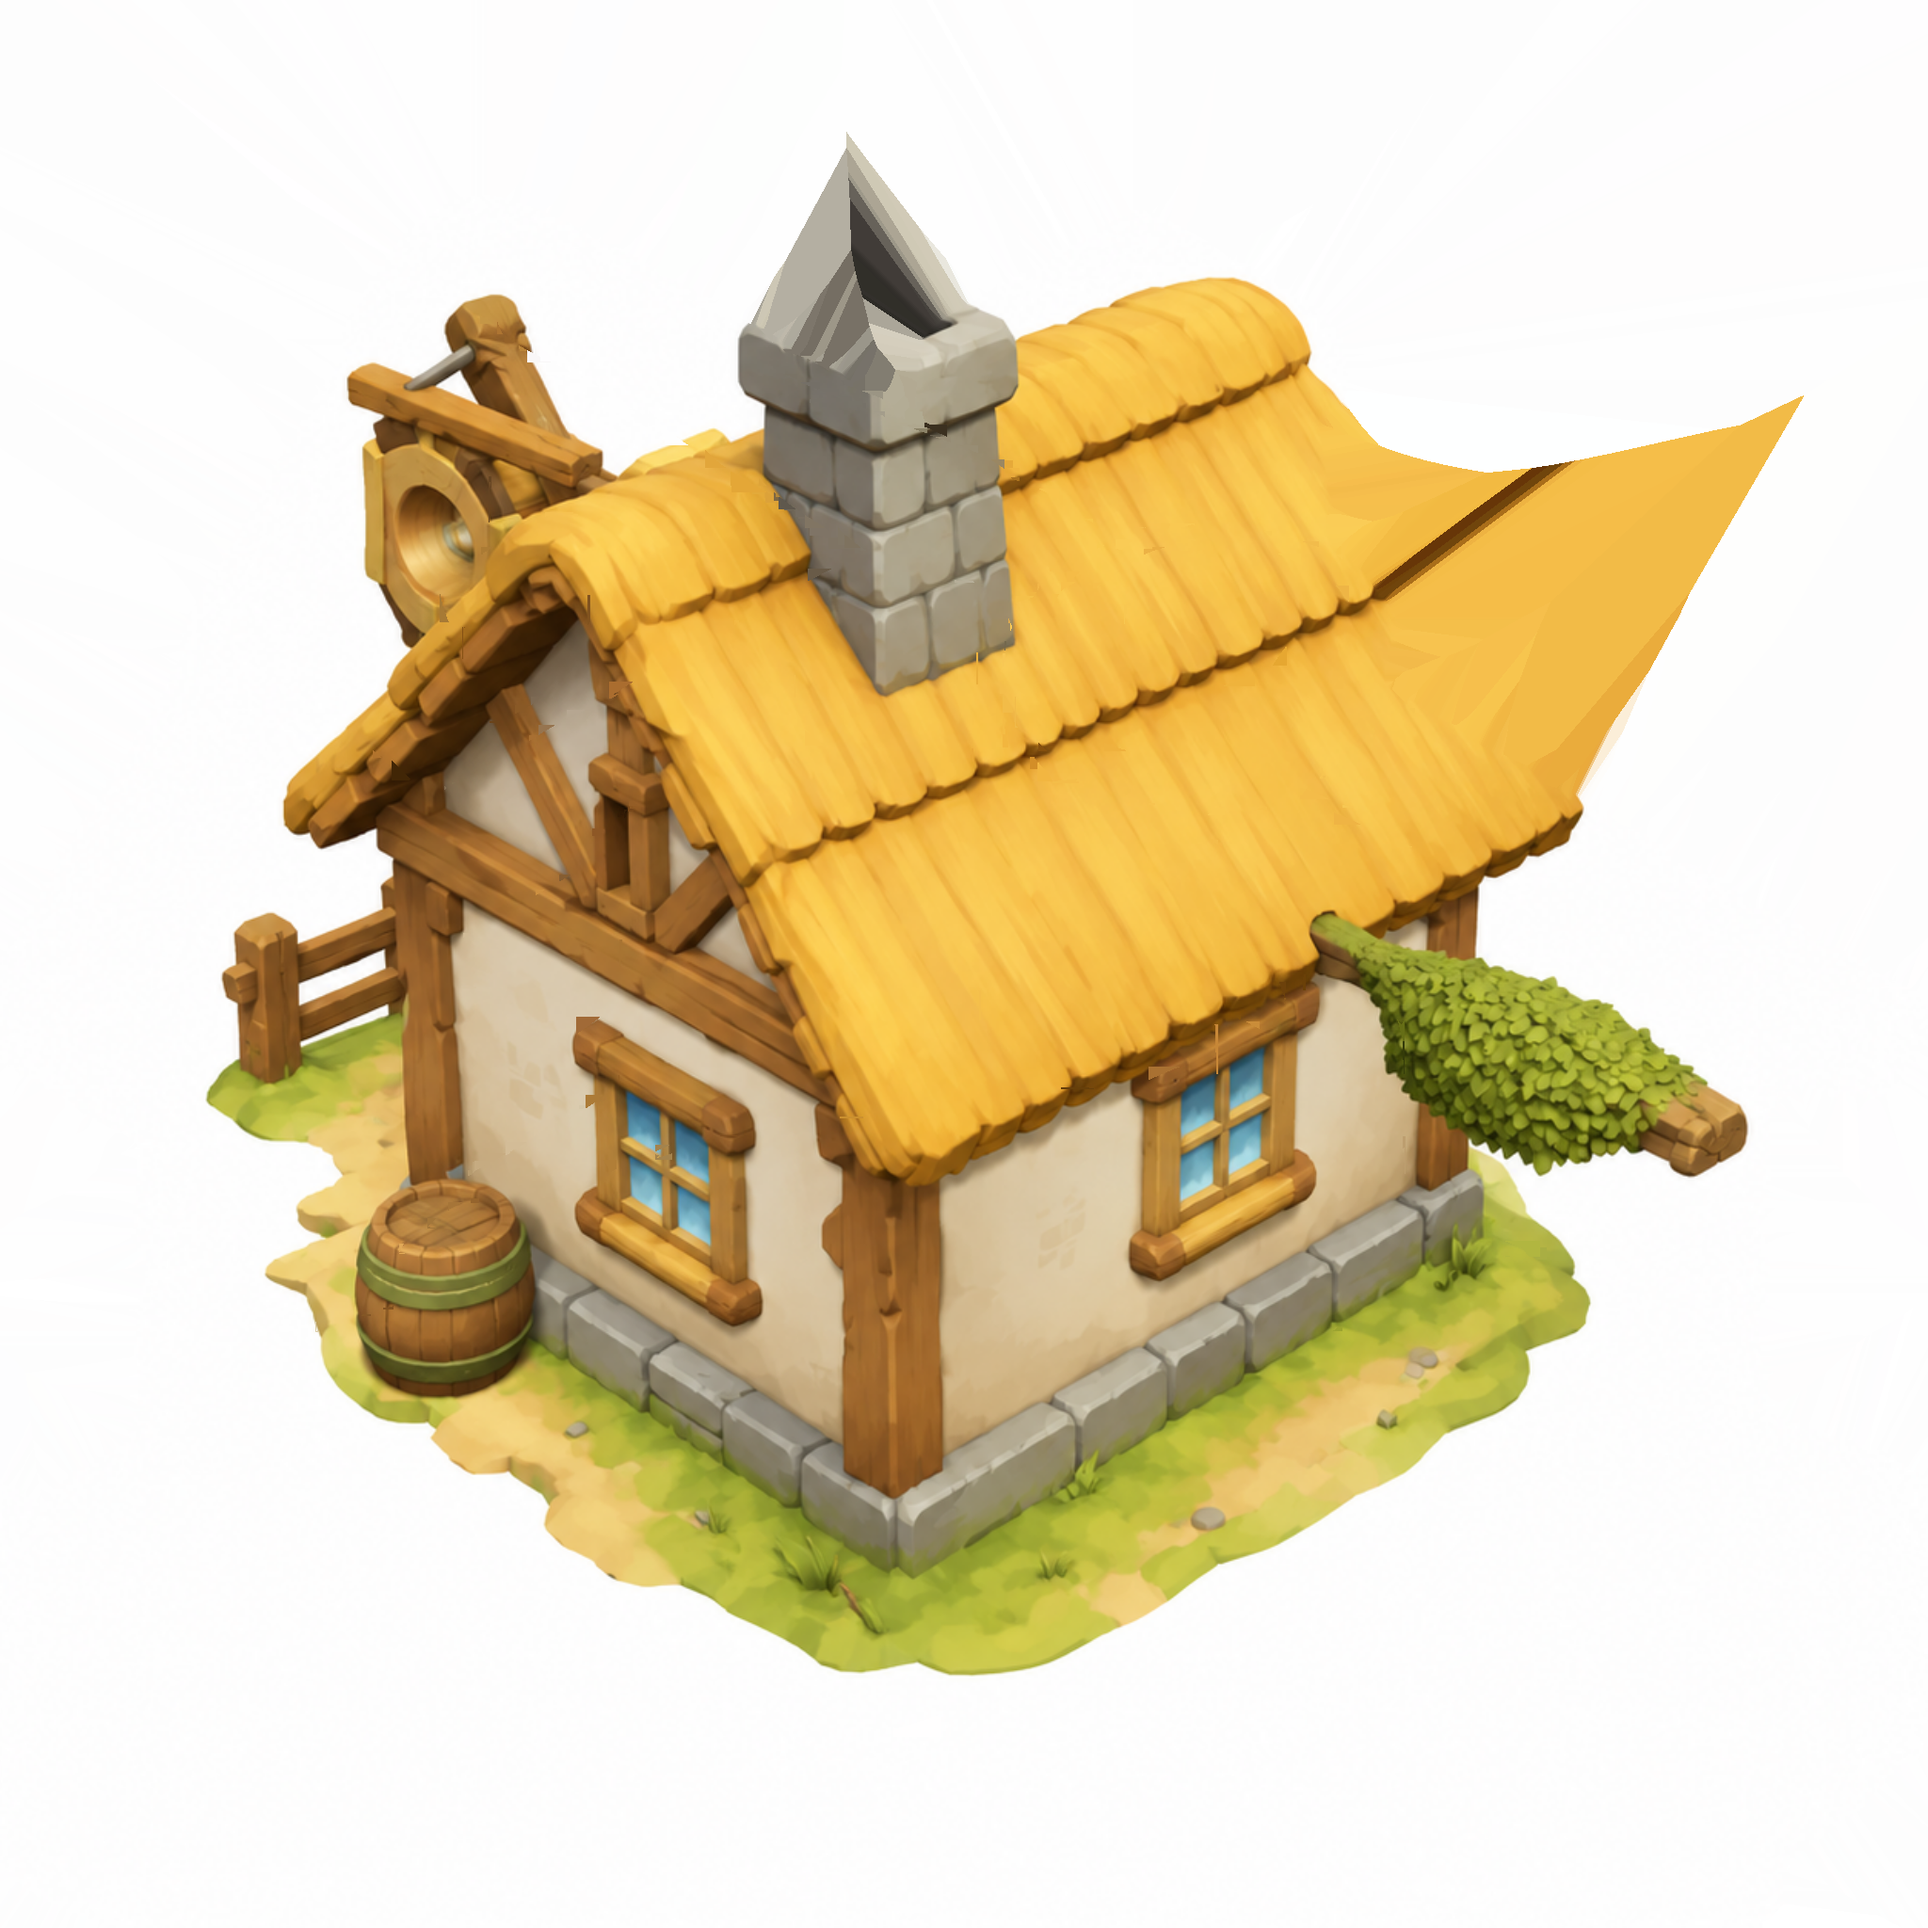
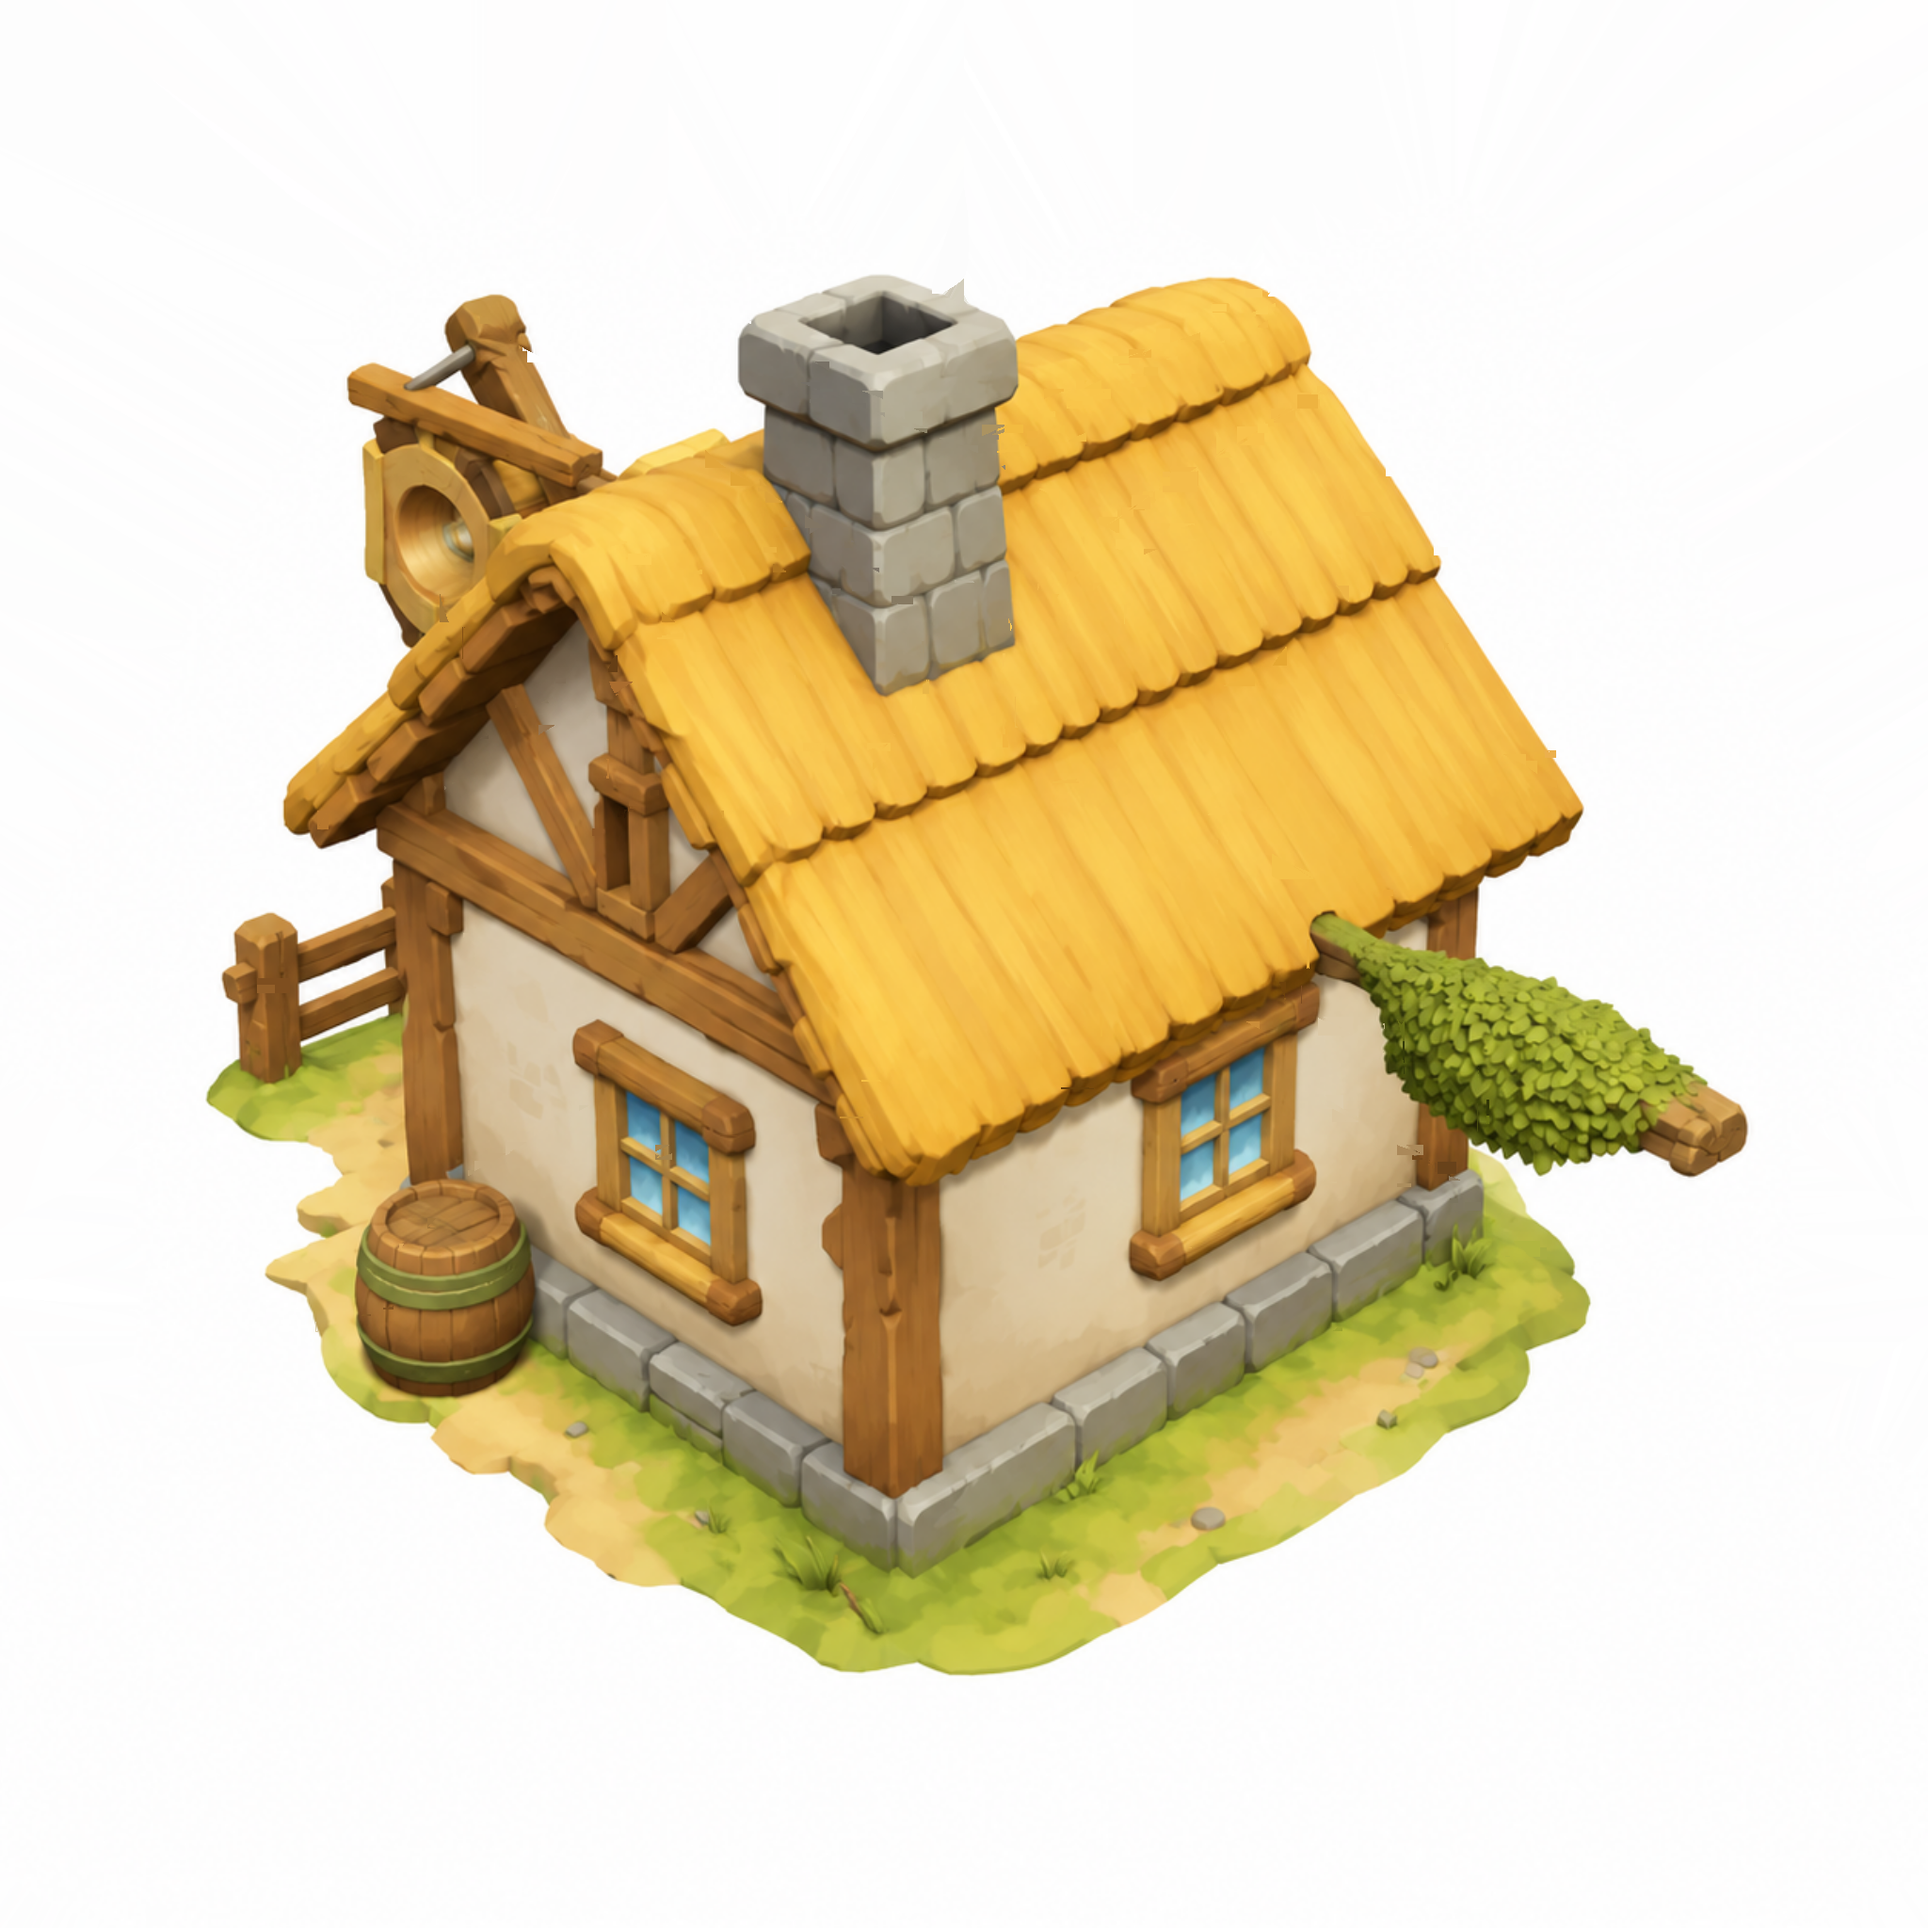
better clay material/hemisphere light; mirrored back-face projection bake

Changed region(s): [[0.6875, 0.1875, 0.9375, 0.4062], [0.375, 0.0625, 0.5, 0.2188]]

diff --git a/i23d-preview.html b/i23d-preview.html
@@ -68,12 +68,14 @@ const enc = p => p.split('/').map(encodeURIComponent).join('/');
 function makeViewer(canvas) {
   const renderer = new THREE.WebGLRenderer({ canvas, antialias: true });
   renderer.toneMapping = THREE.NeutralToneMapping;
+  renderer.toneMappingExposure = 1.15;
   const scene = new THREE.Scene();
   scene.background = new THREE.Color(0x2b2420);
   const cam = new THREE.PerspectiveCamera(45, 1, 0.01, 100);
-  const key = new THREE.DirectionalLight(0xfff2dc, 2.2); key.position.set(3, 5, 2);
-  const fill = new THREE.DirectionalLight(0xcfe0ff, 0.7); fill.position.set(-2, 3, -3);
-  scene.add(key, fill, new THREE.AmbientLight(0xffffff, 0.55));
+  const key = new THREE.DirectionalLight(0xfff0d8, 1.9); key.position.set(3, 5, 2);
+  const fill = new THREE.DirectionalLight(0xcfe0ff, 0.45); fill.position.set(-2, 3, -3);
+  const hemi = new THREE.HemisphereLight(0xfff4e2, 0x8a7358, 0.85);
+  scene.add(key, fill, hemi, new THREE.AmbientLight(0xffffff, 0.35));
   const grid = new THREE.GridHelper(4, 20, 0x52463a, 0x3a3128); scene.add(grid);
   const controls = new OrbitControls(cam, canvas);
   controls.enableDamping = true;
@@ -113,7 +115,7 @@ function makeViewer(canvas) {
 {
   const v = makeViewer(document.getElementById('cv-hunyuan'));
   new GLTFLoader().load(enc('i23d-results/hunyuan-sawmill.glb'), g => {
-    g.scene.traverse(c => { if (c.isMesh) c.material = new THREE.MeshStandardMaterial({ color: 0xd8c8a8, roughness: 0.9 }); });
+    g.scene.traverse(c => { if (c.isMesh) c.material = new THREE.MeshStandardMaterial({ color: 0xe6d2ac, roughness: 0.82 }); });
     v.fit(g.scene);
   });
 }
@@ -121,7 +123,7 @@ function makeViewer(canvas) {
 {
   const v = makeViewer(document.getElementById('cv-triposg'));
   new GLTFLoader().load(enc('i23d-results/triposg-sawmill.glb'), g => {
-    g.scene.traverse(c => { if (c.isMesh) c.material = new THREE.MeshStandardMaterial({ color: 0xd8c8a8, roughness: 0.9 }); });
+    g.scene.traverse(c => { if (c.isMesh) c.material = new THREE.MeshStandardMaterial({ color: 0xe6d2ac, roughness: 0.82 }); });
     v.fit(g.scene);
   });
 }
